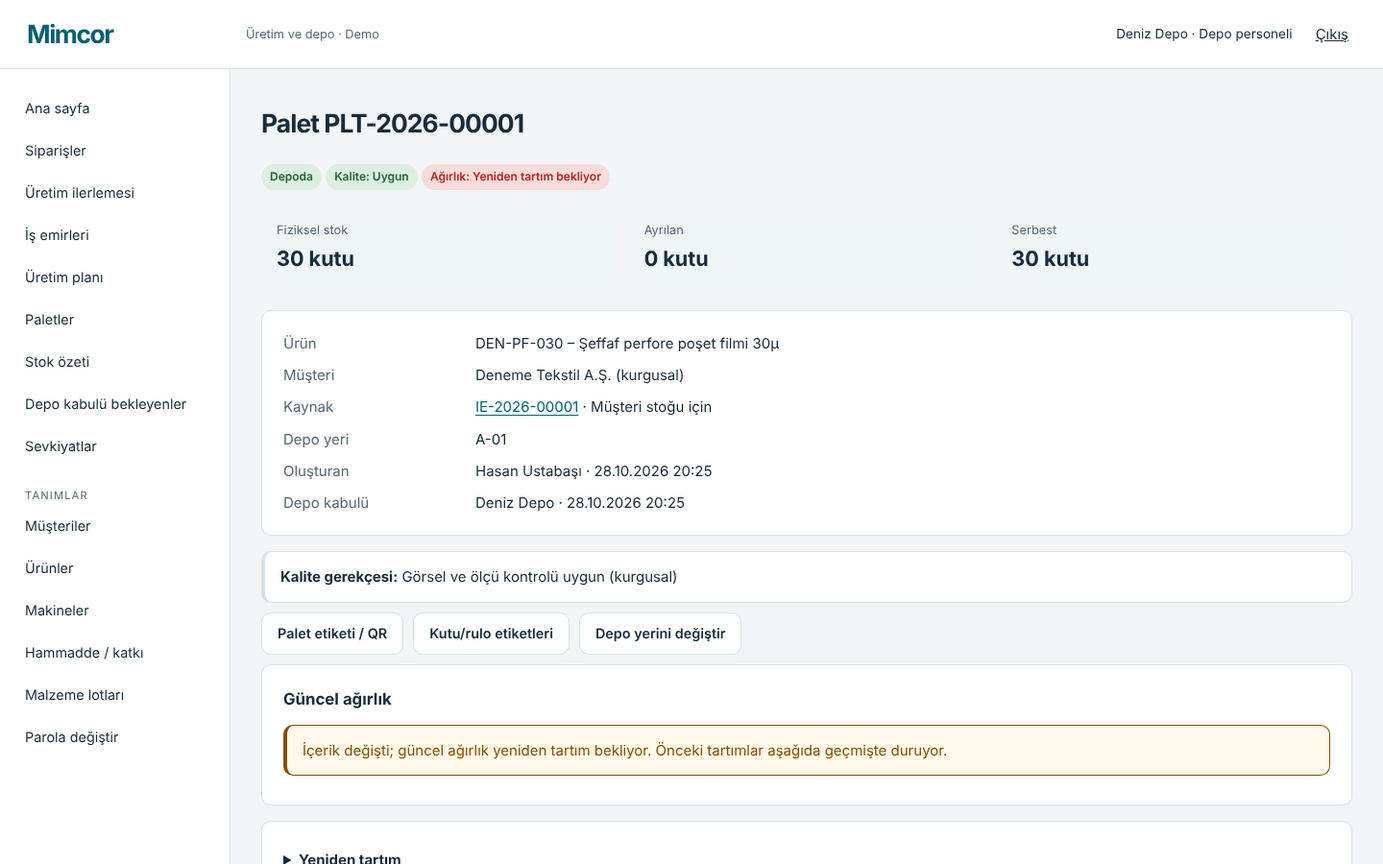
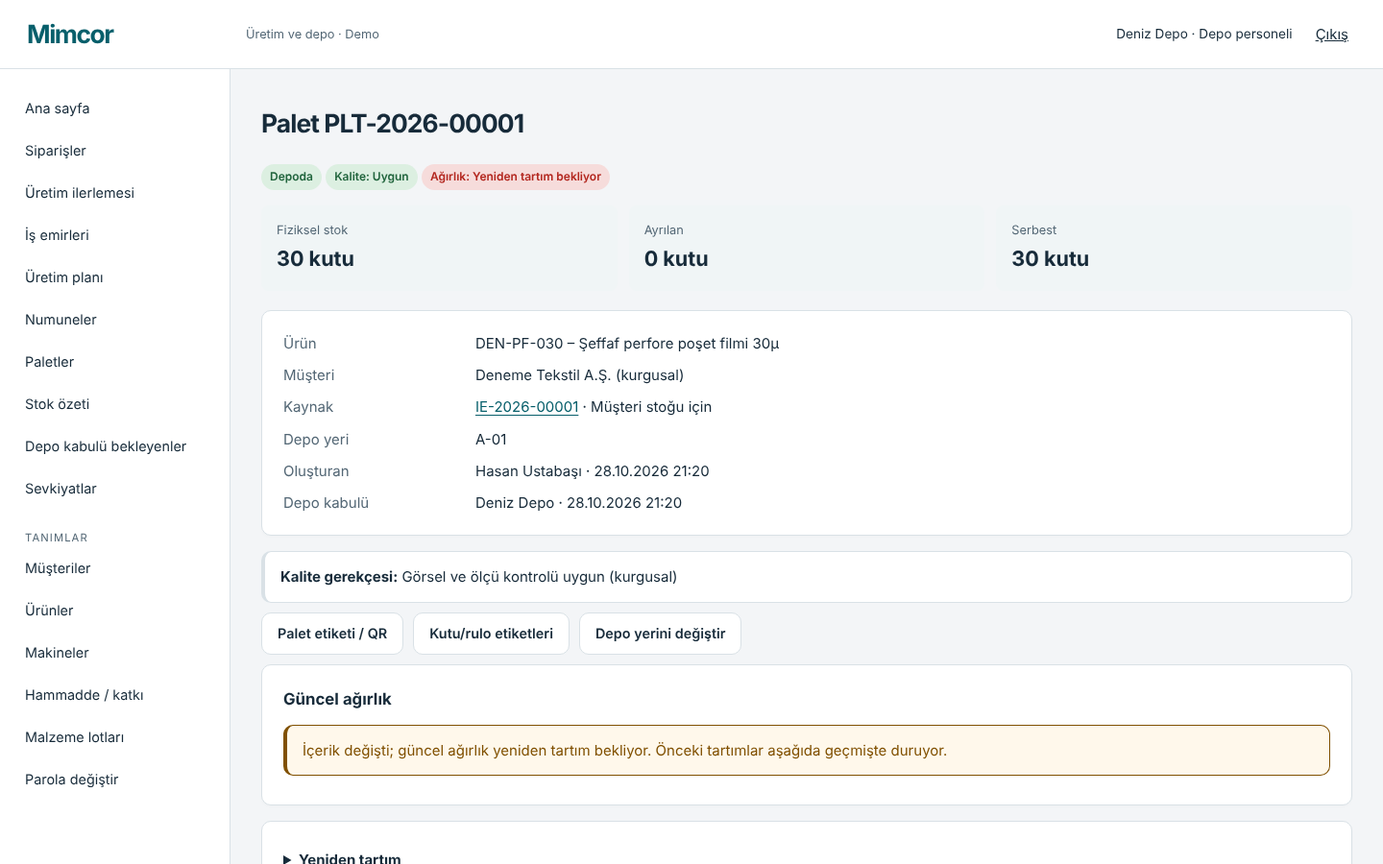
Belgeler: teknik/numune/repete raporu, yetki matrisi, HANDOFF ve ekran görüntüleri
docs/teknik-numune-repete.md: tek doğruluk kaynağı, değişen ekranlar, iş kuralları, yetki matrisi, veri taşıma ve
yükseltme sonuçları, test sonuçları ve 9 kabul senaryosunun kanıtı, karar bekleyen terimler/ölçüm yöntemleri,
desteklenmeyen birim ve stok durumları, kısa kullanıcı kabul adımları. Yetki matrisi koddan yeniden üretildi.
Ekran görüntüleri kurgusal veriyle 1440 px ve 390 px emülasyondur.

Claude-Session: https://claude.ai/code/session_01KGMUvdCG66q2KcVjDRc63w

diff --git a/docs/teknik-numune-repete.md b/docs/teknik-numune-repete.md
@@ -1,0 +1,219 @@
+# Teknik sipariş, reçete, baskı, numune ve repete — 28 Ekim 2026
+
+Branch `feature/mimcor-teknik-numune-repete`, taban `63a5105` (uzak `fix/mimcor-kabul-denetimi` başı; daha yeni
+uygulama değişikliği yoktu; `kabul/mimcor-ortam-63a5105` yalnız belge branch'idir ve taban alınmadı). Merge, PR, force
+push veya canlı yayın yapılmadı. `mimcor`, `mimcor_uat` ve `mimcor_kabul_kopya` veritabanları değiştirilmedi; geliştirme
+`mimcor_tnr_dev`, temiz kurulum `mimcor_tnr_temiz`, yükseltme denetimi `tnr_yukseltme_*_kopya` veritabanlarında yapıldı.
+
+> **Önemli:** Testlerin geçmesi işletme onayı değildir. Kullanılabilirlik hakkında **gerçek kullanıcı gözlemi
+> yapılmadı**; ekranlar 1440 px ve 390 px Chromium **emülasyonuyla** doğrulandı, gerçek telefonla test yapılmadı.
+> Bölüm 7'deki konular işletme kararı bekler; kod onları onaylanmış saymaz, varsayılan davranışı açıkça yazar.
+
+## 1. Tek doğruluk kaynağı
+
+Teknik özellikler yeni bir modelde değil, mevcut değişmez **teknik revizyonda** (`RecipeRevision`) tutulur. Alan
+listesi, birimler, açıklamalar ve görünürlük koşulları tek yerde tanımlıdır (`catalog/spec.py`); sipariş formu, özet
+kartı, teknik imza (sevk uyumluluğu) ve repete değişiklik isteği aynı tanımı kullanır. Sipariş kalemi onaylandığı
+revizyona bağlı kalır (`approved_revision`), iş emri kendi revizyonuna (`recipe_revision`) ve sabitlendiği baskı görseli
+sürümüne (`artwork`). Mevcut alanlar yeniden modellenmedi: `width_mm` (en), `thickness_micron` (hedef kalınlık),
+`length_m` (rulo uzunluğu), `color` (renk adı), `print_spec` / `perforation_spec` (serbest not olarak), bileşenler.
+
+## 2. Değişen ekranlar
+
+| Ekran | Kim | Ne değişti |
+|---|---|---|
+| Yeni satış siparişi (`/siparisler/yeni/`) | Satış | 3 adım: 1) Müşteri ve ürün, 2) Özellikler ve miktar (onaylı teknik özellik kartı otomatik gelir), 3) Teslimat ve kontrol (okunur özet, bölüm başına "Düzenle", müşteri kartından teslimat bilgisi ve doğrulama kutusu). Hatada girilenler korunur; başarıda kod + sıradaki adım. |
+| Sipariş ayrıntısı | Satış, planlama | Kalem kartında "Teknik özellikleri göster" (onaylı revizyon; onay yoksa ürünün güncel revizyonu, açıkça belirtilerek); amaç/yöntem/ücret; repete kaynağı; değişiklik isteği durumu. "Tekrar sipariş (repete)" sihirbaza gider. |
+| Teknik onay (planlama) | Planlama | Teknik özellik kartı + karışım; repete kaynağı ve uyarılar; bekleyen değişiklik isteği varsa onay verilemez. |
+| Reçete ve reçete taslağı | Planlama, yönetici | Taslak düzenleyici: "+ Malzeme ekle", malzeme kartı seçimi (kimliksiz serbest metin yok), tür, oran, uygulama notu, canlı toplam, parti kg hesabı, yuvarlama farkı, teknik özellik bölümleri (baskı/körük/perfore seçimine göre açılır), "Taslağı kaydet" / "Onayla ve revizyon oluştur" / "Taslaktan vazgeç". Mobilde satırlar kart. |
+| Baskı görselleri (`/urun/<id>/baski-gorselleri/`) | Satış (yükleme, müşteri onayı), planlama (iç teknik onay) | Sürüm listesi, durum (taslak / iç onaylı – müşteri bekliyor / geçerli / baskı özellikleri değiştiği için geçersiz), önizleme (PNG/JPG), yetkili indirme, onay ve geri alma. |
+| Matbaa talimatı | Matbaa operatörü (atanmış makine+vardiya), planlama | Klişe, kazan çevresi, tekrar boyu, boşluk, renkler, yüz, yön, en, ürün boyu, görsel sürümü ve küçük önizleme; karışım yok. |
+| Tekrar sipariş (`/siparisler/tekrar/`) | Satış | Müşteri → eski kalemler (kaynak sipariş, ürün kodu, revizyon, uyarılar) → yeni miktar/termin, isteğe bağlı teknik değişiklik + gerekçe → teslimat ve kontrol. |
+| Değişiklik isteği (`/planlama/degisiklik/<id>/`) | Planlama | Eski/yeni değerler yan yana; "Aynı ürün koduna yeni teknik revizyon", "Yeni ürün kodu aç", "Reddet". |
+| Numuneler (`/numuneler/`) | Kalite, depo, ambar, planlama, üretim; satış kısıtlı | Liste/süzgeç, yeni numune, ayrıntı (durum üçlüsü, bilgiler, konum, stok etkisi, işlemler, ölçüm, karar, ekler, hareket geçmişi), QR etiketi, kontrol kriterleri. |
+
+## 3. İş kuralları
+
+**Teknik özellikler (Aşama 1).** Seçimli alanlarda boş = **Belirtilmemiş**; "Yok" ayrı ve açık seçimdir. Eski
+revizyonlarda yeni alanlar boş kalır (0 veya "yok" yazılmadı). Ürün/torba boyu (mm), rulo uzunluğu (m) ve perfore
+aralığı (mm) ayrı alanlardır. Körüklüde "En ölçüm tanımı" (kapalı en / açılmış toplam en) ve körük derinliği revizyon
+onayı için zorunludur; sistem ikisi arasında dönüşüm yapmaz. Ekran önizleme rengi fiziksel renk onayı değildir.
+"Baskı yok", "Körük yok", "Perfore yok" seçildiğinde ilgisiz alanlar ekranda gizlenir **ve sunucuda kaydedilmez**.
+Ondalık girişte "12,5" ve "12.5" kabul edilir; "1.250" gibi binlik/ondalık belirsiz yazım ve hem nokta hem virgül
+reddedilir — 12,5 asla 125 olmaz. Kutu biriminde ondalık miktar 2. adımda alan yanında reddedilir. Başka müşterinin
+ürünü listede yoktur, sunucu da reddeder. Sipariş değişikliği ürün kartını veya eski siparişleri değiştirmez; teknik
+değişiklik yalnız planlamanın yeni revizyonu / yeni ürün koduyla olur. Teknik imza yeni alanları kapsar (eski
+revizyonlar arasında fark üretmez); farklı özellikteki palet ancak eşdeğerlik onayıyla ayrılabilir.
+
+**Reçete (Aşama 2).** Oranlar **nihai karışımın yüzdesidir** (toplam %100). Kod daha önce de bu yöntemi kullanıyordu;
+"100 kg ana malzemeye ilave katkı" yöntemi kullanılmadığından eski reçeteler yeniden yorumlanmadı. Eksik tarif taslak
+olarak kaydedilir; toplam tam %100,000 değilse onay verilmez ("Karışım toplamı %97. Onaylamak için %100 olmalı.").
+Negatif / %100 üstü oran, 3'ten fazla ondalık, aynı malzemenin iki kez kullanımı, pasif malzeme ve kg dışı birimli
+malzeme (litre/adet) reddedilir. kg hesabı Decimal; 0,001 kg'ye ROUND_HALF_UP; yuvarlanmış toplam parti büyüklüğünden
+farklıysa fark ayrıca yazılır (bir satıra gizlice eklenmez). Renklendirici yeni malzeme türüdür; siparişteki istenen renk
+(Görünüm) ile renklendirici malzemesi/dozajı ayrıdır. Planlanan oranlar iş emrindeki gerçek malzeme çıkışlarından
+ayrıdır. Onay her zaman yeni, değişmez revizyon oluşturur; başlamış iş emirleri ve onaylı kalemler eski revizyonu korur.
+Ürün başına tek açık taslak; eş zamanlı iki onay tek revizyon üretir. Kullanılmış malzeme kartları silinmez, pasife
+alınır (mevcut malzeme yönetimi).
+
+**Baskı (Aşama 3).** Kazan çevresi, baskı tekrar boyu ve iki baskı arası boşluk ayrı mm alanlarıdır, birbirine
+eşitlenmez; bilinmeyenler zorunlu değildir. Görsel her yüklemede yeni sürüm olur (yükleyen, tarih, dosya, not). İç
+teknik onay (planlama) ile müşteri onayı (kişi, tarih, kanıt/referans) ayrı kayıttır; satışın müşteri onayı kaydetmesi
+üretim onayı vermez. Onay, onaylandığı andaki **baskı imzasına** (en, ürün boyu ve bütün baskı alanları) bağlıdır; bu
+alanlardan biri değişen revizyonda onaylar geçersiz sayılır ve yeniden gerekir (proses notu gibi alanlar etkilemez).
+Baskılı iş emri serbest bırakılırken o anki geçerli sürüme sabitlenir; sonraki yükleme ve onaylar eski iş emrini ve
+talimatını değiştirmez. Dosyalar PDF/PNG/JPG (imza ve 10 MB kontrolü), herkese açık MEDIA adresinden yayınlanmaz;
+indirme yetkili görünümle, `nosniff` ve `sandbox` başlıklarıyla. Matbaa operatörü yalnız kendi açık iş emrine sabitlenmiş
+sürümü görür.
+
+**Repete (Aşama 4).** Sipariş **amacı** (ticari / numune / deneme), **oluşturma yöntemi** (yeni / repete / revizyonlu
+repete) ve **ücret** (ücretli / ücretsiz) ayrı alanlardır; muhasebe/fatura oluşturulmaz; numune ve deneme siparişleri de
+normal üretim, stok ve izlenebilirlik kurallarından geçer. Repete yalnız yetkili müşterinin normal kalemlerinden yapılır
+(yerine gönderim kalemi listelenmez). Yeni kalem kaynak kaleme bağlanır (`source_line`); miktar ve termin yeniden
+girilir; teslimat bilgisi bugünkü müşteri kartından alınır ve doğrulatılır (sistemde fiyat alanı yoktur). Üretim,
+rezervasyon, sevkiyat, onay ve düzeltme kayıtları kopyalanmaz; revizyon otomatik değişmez; kalem yine planlamanın teknik
+onayından geçer. Pasif ürün tekrar edilemez; kaynak revizyon güncel değilse veya kaynak onaysızsa uyarı gösterilir.
+Revizyonlu repetede satış yalnız izinli teknik alanları ve gerekçeyi kaydeder (karışım değiştirilemez); planlama yan
+yana görür ve yeni revizyon taslağı (temel karışım korunur) veya **aynı müşteriye** yeni ürün kodu açar ya da reddeder;
+karar verilmeden kalem teknik onayı verilemez. Önceki siparişler ve başlamış işler etkilenmez. Çok kalemli siparişte
+hangi kalemlerin tekrarlanacağı tek tek seçilir; kaynak ilişkisi kalem düzeyindedir.
+
+**Numune (Aşama 5).** Türler: müşteriden gelen referans, üretim kontrol, saklama/şahit, müşteriye gönderilen.
+Fiziksel durum, iç kalite kararı ve müşteri geri bildirimi ayrı alanlardır. Stok: yalnız firma içi numunede paletin
+**serbest** (rezervasyon dışı) kutularından tam kutu, bir kez (numune birimi kutu ve miktarı aynı olmalı) — tek palet
+hareketi "Numune için ayırma"; ayrılan kutular sevk edilemez. Gönderim, geri dönüş/iade ve imha yalnız olay kaydıdır,
+ikinci stok hareketi yaratmaz; müşteri referansı stok etkisizdir. Kalite kararı kapsadığı palet/bobinleri yalnız
+belgeler; kalite durumlarını değiştirmez, blokaj kaldırmaz; numune kararı yetkisi blokaj kaldırma veya stok düzeltme
+yetkisi değildir. Kriterler ve kabul aralıkları yetkili kişilerce tanımlanır (sabit fabrika standardı yoktur);
+değişiklik yeni kriter kaydı açar, eski ölçüm ölçüm anındaki kriter kopyasıyla kalır. QR etiketi yalnız yetkili sayfayı
+açar, stok/durum değiştirmez. Satış yalnız yetkili müşterisinin paylaşılabilir durumunu, paylaşılabilir notu ve müşteri
+geri bildirimini görür (ölçüm, iç karar, iç not, konum, reçete yok).
+
+**Kullanılabilirlik (Aşama 6).** Mevcut tasarım dili ve altyapı korundu. Alan etiketlerinde birim, altında kısa açıklama
+(alan dolu iken de görünür). Hata mesajları alanın yanında, Türkçe (arayüz dili sabit Türkçe). Değişmiş formdan
+ayrılırken tarayıcı uyarısı. Çift tıklama kilidi korunur ve tıklanan düğmenin değeri artık kaybolmaz (bulunan hata:
+kilit adım düğmelerinin değerini düşürüyordu). Aynı sayfadaki her form kendi tek kullanımlık anahtarını kullanır
+(bulunan hata: baskı görseli/değişiklik isteği sayfalarında ikinci işlem "zaten kaydedildi" sayılabilirdi). Etkili
+işlemlerde "Emin misiniz?" yerine etki metni. Yetkisiz işlem ekranda sunulmaz ve sunucuda reddedilir.
+
+## 4. Yetki matrisi (yeni ve ilgili işlemler)
+
+T = tüm kayıtlar, M = erişim verilen müşteriler, A = kendisine atanmış işler, · = yok. Tam matris:
+`docs/operasyon-genisletme.md` bölüm 1 (koddan yeniden üretildi).
+
+| Yetki | Yönetici | İK | Satış | Planlama | Üretim yetkilisi | Ustabaşı | Usta / operatör | Kalite sorumlusu | Ambar yetkilisi | Depo personeli |
+|---|---|---|---|---|---|---|---|---|---|---|
+| `recipe.view` Reçete arşivi ve revizyonlarını görme | T | · | · | T | · | · | · | · | · | · |
+| `recipe.change` Reçete revizyonu oluşturma | T | · | · | T | · | · | · | · | · | · |
+| `artwork.view` Baskı görsellerini ve onay durumunu görme / indirme | T | · | M | T | T | · | · | · | · | · |
+| `artwork.manage` Baskı görseli taslak sürümü yükleme / kullanımdan kaldırma | T | · | M | T | · | · | · | · | · | · |
+| `artwork.approve` Baskı görseline iç teknik onay verme (üretime uygun) | T | · | · | T | · | · | · | · | · | · |
+| `artwork.customer_approval` Baskı görseli için müşteri onayını kaydetme | T | · | M | T | · | · | · | · | · | · |
+| `sample.view` Numuneleri görme (satış: yalnız paylaşılabilir durum ve geri bildirim) | T | · | M | T | T | A | · | T | T | T |
+| `sample.manage` Numune kaydı, konum, gönderim, geri dönüş, imha, ek dosya | T | · | · | T | T | A | · | T | T | T |
+| `sample.stock` Numune için paletten kutu ayırma (stok düşer) | T | · | · | · | · | · | · | · | T | T |
+| `sample.decide` Numune ölçümü ve iç kalite kararı (blokaj kaldırma değildir) | T | · | · | · | T | · | · | T | · | · |
+| `sample.feedback` Müşteri geri bildirimini kaydetme | T | · | M | T | · | · | · | T | · | · |
+| `sample.criteria` Numune kontrol kriterlerini tanımlama | T | · | · | · | · | · | · | T | · | · |
+
+Matbaa operatörü görsel dosyasını `artwork.view` olmadan, yalnız kendi açık iş emrindeki operasyonda aktif teknik
+erişimi varken görür. Revizyonlu repete kararı `planning.approve` + `recipe.change` (yeni ürün kodu için ayrıca
+`product.create`) ister.
+
+## 5. Veri taşıma yaklaşımı
+
+Migration'lar: `catalog.0009_teknik_ozellikler` (revizyona boş bırakılabilir teknik alanlar, bileşen uygulama notu,
+renklendirici türü), `catalog.0010_recete_taslagi`, `catalog.0011_baski_gorseli`, `production.0009_baski_gorseli`
+(iş emri → görsel sürümü), `orders.0008_teknik_ozellikler` (amaç/yöntem/ücret), `orders.0009_repete` (kaynak kalem,
+değişiklik isteği), `warehouse.0004_numune` (hareket türü), `samples.0001_numune`, `accounts.0008_artwork_permissions`,
+`accounts.0009_sample_permissions`.
+
+- Eski revizyon, sipariş ve iş emirlerinde yeni alanlar boş = belirtilmemiş; hiçbir değer tahmin edilip yazılmadı.
+- Yetkiler yalnız **değiştirilmemiş** şablon rollerine eklenir; özelleştirilmiş rollere dokunulmaz, işlem geçmişine
+  "şablon farkı" notu yazılır (`template_sync`). Bu sırada bulunan hata düzeltildi: temiz kurulumda rolleri güncel
+  şablonla oluşturan ilk migration nedeniyle eski senkron migration'ları sahte "şablon farkı" üretiyordu.
+- Yükseltme denetimi: `mimcor_uat` kopyasında 29, `mimcor` kopyasında 38 migration hatasız; eski revizyon kartında
+  "Körük / Baskı / Perfore: Belirtilmemiş", eski siparişte amaç/yöntem belirtilmemiş. UAT kopyasında depo ve üretim
+  yetkilisi rolleri daha önce özelleştirildiği için (eksik `customer.document.view`) numune yetkileri otomatik
+  eklenmedi ve şablon farkı olarak raporlandı — yönetici rol ekranından karar vermeli. Kaynak veritabanları değişmedi.
+- Temiz kurulum + `seed_demo` iki kez: hatasız, tekrar çalıştırmada kayıt çoğalmaz; yetki denetiminde bulgu yok.
+
+## 6. Test sonuçları ve ekran görüntüleri
+
+Yerel, 28.10.2026, PostgreSQL 16 (seri çalıştırma):
+
+| Kontrol | Sonuç |
+|---|---|
+| `python manage.py test` (tam takım) | 378/378 geçti (önceki tur 330; bu turda +48 test, eş zamanlılık testleri dahil) |
+| Tarayıcı: `browser_checks`, `order_product_filter_checks`, `field_scenarios_checks`, yeni `teknik_numune_checks` (Chromium headless, 1440 px + 390 px emülasyon) | 8/8 geçti |
+| `makemigrations --check --dry-run` | Değişiklik yok |
+| Temiz kurulum + `seed_demo` ×2 | Hatasız; denetimde bulgu yok |
+| Yükseltme: `mimcor_uat` kopyası (29 migration), `mimcor` kopyası (38 migration) | Hatasız; bölüm 5 |
+| GitHub Actions | Son commit için iki iş (Django, Chromium) teslim notunda verilir |
+
+Mevcut testler korundu; üç mevcut test yeni akışa uyarlandı (kontrol gevşetilmeden): sipariş girişi testleri tam
+gönderimde amaç ve teslimat doğrulamasını da gönderir; ürün filtresi tarayıcı testi hatayı 2. adımda bekler ve "Geri"
+ile seçimin korunduğunu doğrular, müşterinin bütün aktif ürünleriyle karşılaştırır (yeni demo ürünü); demo akışı 3
+adımdan geçer.
+
+Kabul senaryoları ve kanıtları:
+
+| # | Senaryo | Test |
+|---|---|---|
+| 1 | Satış körüklü, baskılı ürün siparişi açar; planlama özellikleri ve onaylı görseli görür | `catalog/tests/test_spec.py::OrderWizardTests`, `ui_checks.teknik_numune_checks` (adım 1–2) |
+| 2 | Eksik oranlı reçete taslak kaydolur, onaylanamaz; %100'de onaylanır; yetkisiz bileşimi göremez | `catalog/tests/test_recipe_draft.py`, tarayıcı adım 3 |
+| 3 | Yeni baskı görseli eski iş emrinin talimatını değiştirmez | `catalog/tests/test_artwork.py::test_release_requires_valid_artwork_and_pins_version` |
+| 4 | Repete eski stok/sevk/onay kayıtlarını kopyalamaz | `orders/tests/test_repeat.py::test_repeat_copies_nothing_operational` |
+| 5 | Revizyonlu repete değişiklikleri planlamaya gösterir | `orders/tests/test_repeat.py` (yan yana, yeni revizyon, yeni ürün kodu, ret), tarayıcı adım 4 |
+| 6 | Numune ayırma, gönderim, iade ve imhada stok iki kez etkilenmez | `samples/tests/test_samples.py::StockEffectTests` |
+| 7 | Numune uygunluğu ilgisiz paleti serbest bırakmaz | `samples/tests/test_samples.py::DecisionScopeTests` |
+| 8 | Başka müşterinin sipariş/numune/dosyasına URL ve POST ile erişilemez | `test_artwork.py::test_file_access_scoped`, `test_samples.py::test_other_customer_url_and_post_404`, `test_repeat.py::test_other_customer_hidden` |
+| 9 | Çift gönderim ve eş zamanlı işlemler | Çift gönderim: sipariş, repete, görsel yükleme, stok ayırma; PostgreSQL eş zamanlı: reçete onayı, değişiklik kararı, numune stok ayırma (`TransactionTestCase`) |
+
+Ekran görüntüleri (kurgusal veri, 1440 px ve 390 px emülasyon): `docs/screenshots/teknik-numune-repete/` —
+`tnr-1-siparis-adim1`, `tnr-1-siparis-hata`, `tnr-1-siparis-adim3`, `tnr-2-planlama-onay`, `tnr-2-baski-gorselleri`,
+`tnr-3-recete-eksik`, `tnr-3-recete-onaylandi`, `tnr-4-repete-kalemler`, `tnr-4-repete-kontrol`,
+`tnr-4-planlama-yan-yana`, `tnr-5-numune-ayrinti`, `tnr-5-numune-etiket`, `tnr-5-numune-satis` (her biri `-1440` ve
+`-390`).
+
+## 7. Karar bekleyen terimler ve ölçüm yöntemleri
+
+| Konu | Mevcut davranış (onaylanmış sayılmaz) |
+|---|---|
+| "Klişe kazan aralığı" teriminin karşılığı | Kesinleşmedi. Kazan çevresi, baskı tekrar boyu ve iki baskı arası boşluk ayrı mm alanları; hiçbiri bu terime eşitlenmedi, birbirinden türetilmez. İşletme terimi tanımlayınca etiket/eşleme yapılmalı. |
+| Körüklü üründe en ölçümü | Kapalı en / açılmış toplam en açık seçim olarak kaydedilir; dönüşüm yok. İşletmenin standart ölçüm yöntemi belirlenmeli. |
+| Baskı görselinde müşteri onayının üretim şartı olup olmadığı | Varsayılan: iç teknik + müşteri onayı gerekir (`PRINT_REQUIRE_CUSTOMER_APPROVAL=1`). |
+| Geri dönen numunenin satılabilir stoğa alınması | Desteklenmiyor; geri dönüş yalnız olay kaydı. |
+| Numune kabul aralıkları | Sistem standart uydurmaz; demo kriterinde aralık yok. Kalite yetkilisi tanımlamalı. |
+| Tolerans alanları | Yalnız bilgi; ölçüm sonucuyla otomatik karşılaştırma yapılmaz. |
+| Önceki turdan karar bekleyen dört konu (ambar talep hakkı, tedarikçi parti/irsaliye, belgesi beklenen mal kabulü, geciken devir) | Değiştirilmedi (`docs/kabul-denetimi.md` bölüm 6). |
+
+## 8. Desteklenmeyen birim ve stok durumları
+
+- Rezervasyon ve sevkiyat yine yalnız **kutu**; kg/rulo/adet arasında doğrulanmamış dönüşüm yapılmaz (sahte birim
+  dönüşümü eklenmedi).
+- Karışım yalnız kg birimli malzemelerle; litre/adet malzeme karışıma girmez.
+- Numunede stoktan yalnız tam kutu düşer. Kutudan kısmi numune (birkaç adet/rulo, kg) ve bobinden kg numune
+  kaydedilir ama palet/bobin miktarı değişmez — bu kasıtlı sınırdır; fiziksel sayım farkı varsa düzeltme talebiyle
+  kapatılır.
+- Ürün başına tek açık reçete taslağı. Yeni ürün kodu kararından sonra taslaktan vazgeçilirse kalem yeni kodda kalır;
+  istek yeniden karar bekler.
+
+## 9. Kısa kullanıcı kabul adımları (demo verisi, kurgusal)
+
+1. **2001 Satış** → Siparişler → Yeni sipariş: Müşteri "Örnek Gıda", ürün ORN-KB-045 → İleri. Kartta "Yan körük",
+   "Kapalı en", klişe KL-ORN-01, "Onaylı sürüm 1" görünür; karışım görünmez. Miktara 12,5 yazın → İleri: kutuda tam sayı
+   uyarısı, yazdığınız korunur. 10 yazın, amaç Numune, ücret Ücretsiz → İleri → teslimatı işaretleyip kaydedin; kod ve
+   sıradaki adım yazar. Siparişi onaylayın.
+2. **3001 Planlama** → Planlama → kalemi açın: aynı özellikler; "Baskı görsellerini aç" → sürüm 1 "Geçerli".
+3. **3001** → ORN-KB-045 reçetesi → Değiştir → Taslak aç → "+ Malzeme ekle"; ilk oranı 57 yapın: "Karışım toplamı %97…"
+   → Onayla: reddedilir, taslak kalır. 60 yapıp onaylayın: yeni revizyon.
+4. **2001** → aynı sipariş → "Tekrar sipariş (repete)" → kalem işaretli; miktar 5; "Teknik değişiklik iste" → işaret,
+   gerekçe, en 420 → İleri → değişiklik tablosu → kaydedin. **3001** → değişiklik isteği: 400 mm / 420 mm yan yana;
+   karar verin.
+5. **5001 Depo** → Numuneler → Yeni: Saklama/şahit, Deneme Tekstil, DEN-PF-030, 2 kutu → kaydedin → "Stoktan ayır":
+   PLT-2026-00001, 2 → palet 2 kutu azalır. Gönder → geri dönüş → imha: palet bir daha değişmez. QR etiketi açılır.
+6. **4004 Kalite** → aynı numune: ölçüm (Kalınlık) ve "Uygun" kararı, kapsam PLT-2026-00001 → paletin kalite durumu
+   değişmez. **2001** → numune: yalnız durum ve geri bildirim alanı; ölçüm/karar/konum görünmez.
+
+Başarısızlıkta adım no, personel no, adres, kayıt kodu, saat, görülen mesaj ve ekran görüntüsünü kaydedin.

diff --git a/docs/operasyon-genisletme.md b/docs/operasyon-genisletme.md
@@ -59,6 +59,10 @@ Kaynak branch'e merge, force push veya canlı yayın yapılmadı. Aşama commit'
 | `product.change` Ürün kodunu değiştirme / pasife alma | T | · | M | T | · | · | · | · | · | · |
 | `recipe.view` Reçete arşivi ve revizyonlarını görme | T | · | · | T | · | · | · | · | · | · |
 | `recipe.change` Reçete revizyonu oluşturma | T | · | · | T | · | · | · | · | · | · |
+| `artwork.view` Baskı görsellerini ve onay durumunu görme / indirme | T | · | M | T | T | · | · | · | · | · |
+| `artwork.manage` Baskı görseli taslak sürümü yükleme / kullanımdan kaldırma | T | · | M | T | · | · | · | · | · | · |
+| `artwork.approve` Baskı görseline iç teknik onay verme (üretime uygun) | T | · | · | T | · | · | · | · | · | · |
+| `artwork.customer_approval` Baskı görseli için müşteri onayını kaydetme | T | · | M | T | · | · | · | · | · | · |
 | `machine.view` Makineleri görme | T | · | T | T | T | T | T | T | T | T |
 | `machine.manage` Makine ekleme/değiştirme | T | · | · | T | · | · | · | · | · | · |
 | `material.view` Hammadde/katkı ve lotları görme | T | · | · | T | T | T | · | · | T | T |
@@ -96,6 +100,12 @@ Kaynak branch'e merge, force push veya canlı yayın yapılmadı. Aşama commit'
 | `stocklevel.manage` Hedef/alt stok seviyesi tanımlama | T | · | · | T | · | · | · | · | · | · |
 | `correction.request` Düzeltme talebi açma | T | · | M | T | T | · | · | · | · | · |
 | `correction.approve` Düzeltme talebini onaylama/reddetme | T | · | · | · | T | · | · | · | T | · |
+| `sample.view` Numuneleri görme (satış: yalnız paylaşılabilir durum ve geri bildirim) | T | · | M | T | T | A | · | T | T | T |
+| `sample.manage` Numune kaydı, konum, gönderim, geri dönüş, imha, ek dosya | T | · | · | T | T | A | · | T | T | T |
+| `sample.stock` Numune için paletten kutu ayırma (stok düşer) | T | · | · | · | · | · | · | · | T | T |
+| `sample.decide` Numune ölçümü ve iç kalite kararı (blokaj kaldırma değildir) | T | · | · | · | T | · | · | T | · | · |
+| `sample.feedback` Müşteri geri bildirimini kaydetme | T | · | M | T | · | · | · | T | · | · |
+| `sample.criteria` Numune kontrol kriterlerini tanımlama | T | · | · | · | · | · | · | T | · | · |
 
 İK atayabilir: Satış, Planlama, Üretim yetkilisi, Ustabaşı, Usta / operatör, Kalite sorumlusu, Ambar yetkilisi, Depo personeli
 

diff --git a/HANDOFF.md b/HANDOFF.md
@@ -1,3 +1,25 @@
+# Teknik sipariş, reçete, baskı, numune ve repete — 28 Ekim 2026
+
+Branch: `feature/mimcor-teknik-numune-repete` (taban `63a5105`; merge/PR/canlı yayın yok). Ayrıntı, iş kuralları, yetki
+matrisi, veri taşıma, test sonuçları, ekran görüntüleri, karar bekleyenler ve kısa kabul adımları:
+**[docs/teknik-numune-repete.md](docs/teknik-numune-repete.md)**.
+
+| Aşama | Özet |
+|---|---|
+| 1 Teknik özellikler | Teknik revizyonda (tek kaynak) ölçüler/körük/en tanımı/toleranslar/görünüm/perfore/baskı alanları; boş = Belirtilmemiş, "Yok" ayrı; 3 adımlı sipariş girişi; Türkçe ondalık; amaç/yöntem/ücret ayrı |
+| 2 Reçete | Satır eklenebilen taslak; %100 olmadan onay yok; parti kg hesabı ve yuvarlama farkı; renklendirici; yeni revizyon, eski işler değişmez |
+| 3 Baskı | Görsel sürümleri, iç teknik ve müşteri onayı ayrı, baskı imzasına bağlı; iş emri serbest bırakılırken sürüme sabitlenir; güvenli indirme |
+| 4 Repete | Kalem seçmeli tekrar sipariş; operasyon kaydı kopyalanmaz; revizyonlu repetede planlama yan yana karar verir |
+| 5 Numune | Fiziksel durum / iç karar / müşteri geri bildirimi ayrı; tek stok hareketi; karar paletleri serbest bırakmaz; QR |
+| 6 Kullanılabilirlik | Alan yanı Türkçe hatalar, açıklama + birim, ayrılma uyarısı; çift gönderim ve aynı sayfadaki form anahtarı hataları düzeltildi |
+
+**Karar bekleyen:** "klişe kazan aralığı" teriminin karşılığı, körüklüde en ölçüm yöntemi, baskıda müşteri onayının
+üretim şartı olup olmadığı (varsayılan: gerekir), geri dönen numunenin stoğa alınması (desteklenmiyor), numune kabul
+aralıkları. Önceki turun dört karar konusu değiştirilmedi. **Gerçek kullanıcı gözlemi ve gerçek telefon testi
+yapılmadı; testlerin geçmesi işletme onayı değildir.**
+
+---
+
 # Kabul denetimi — 28 Ekim 2026
 
 Branch: `fix/mimcor-kabul-denetimi` (kaynak `fix/mimcor-yetki-veri-tutarliligi` @ `ff01e32`; merge/PR/canlı yayın yok).
